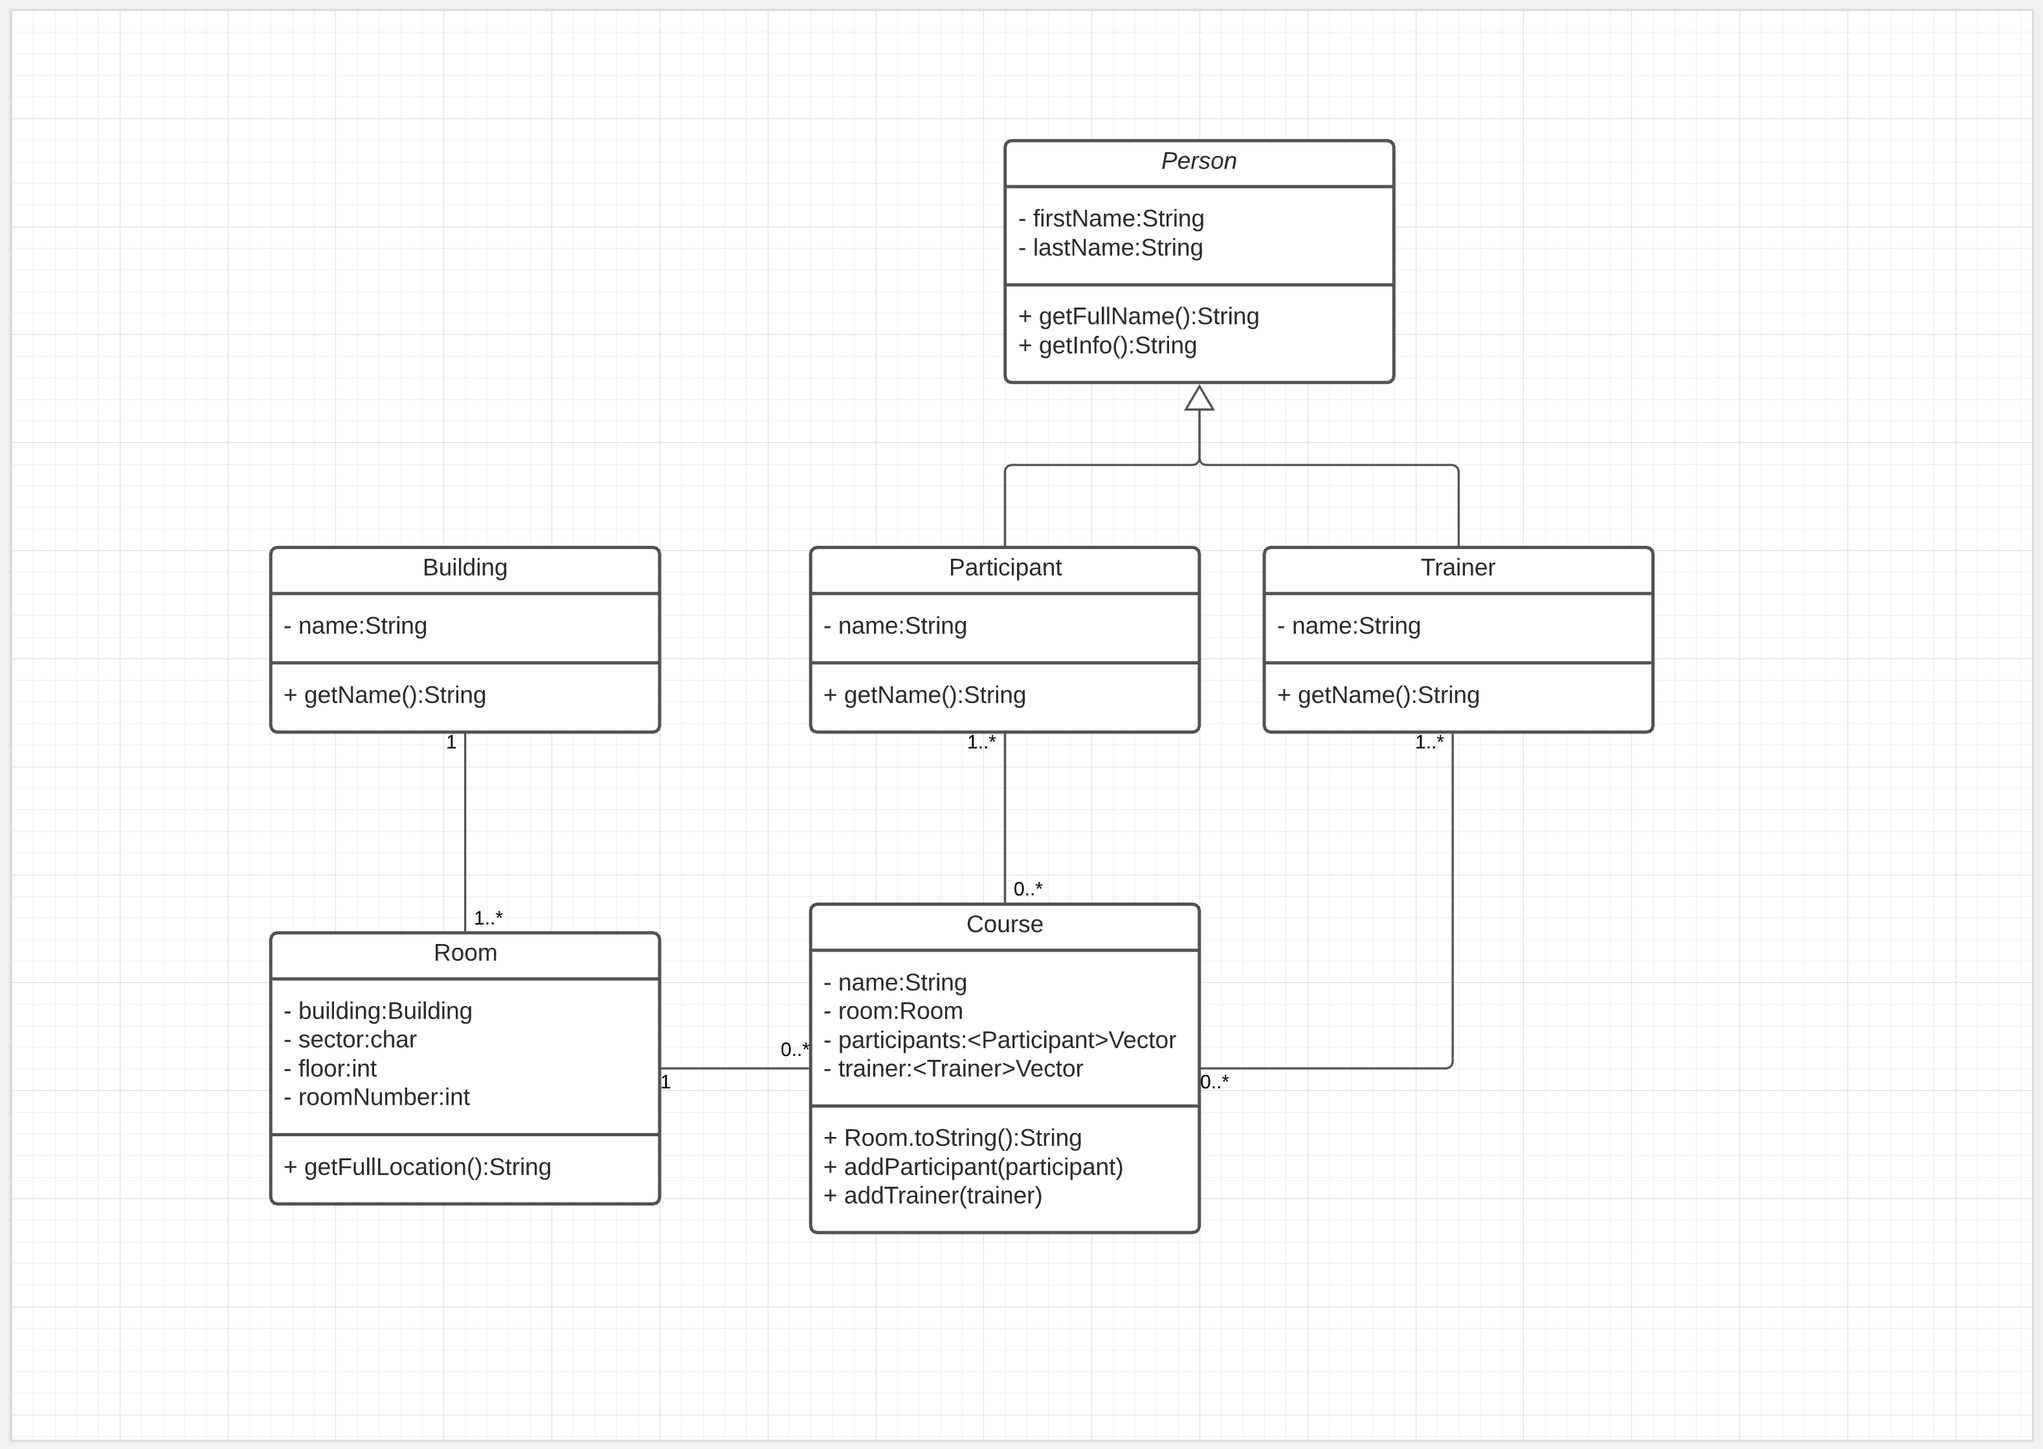
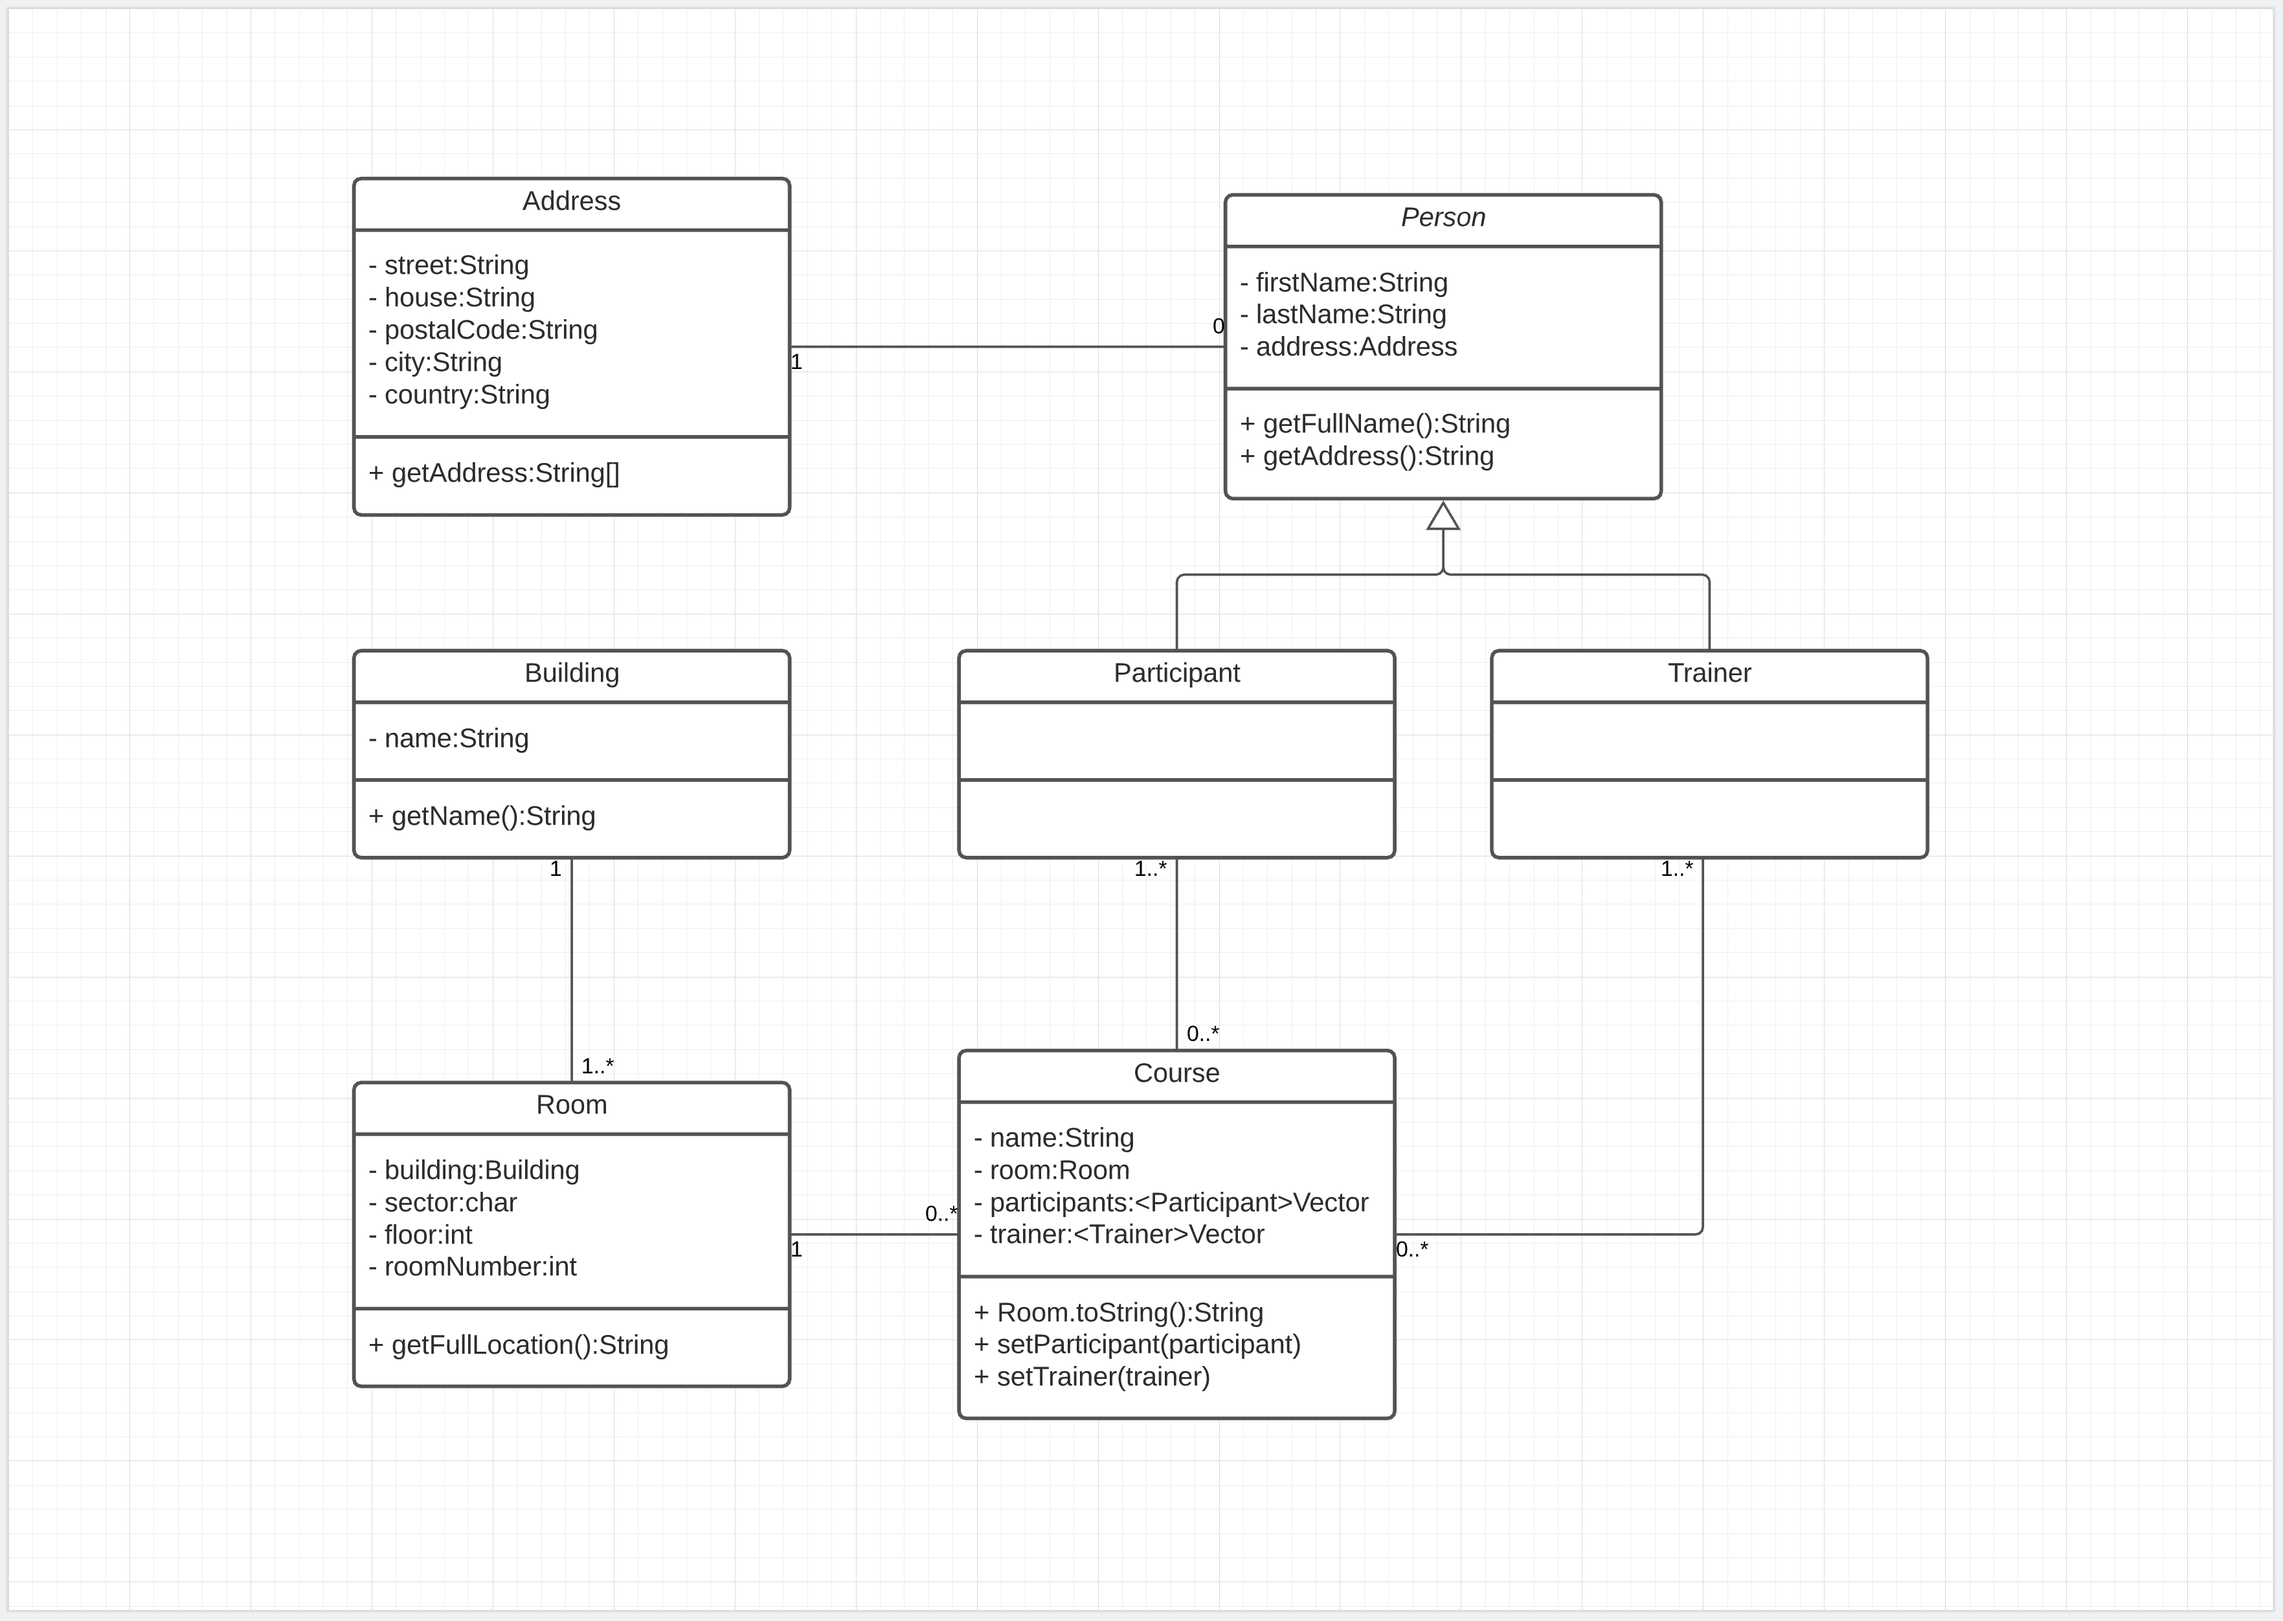
Update UML and minor changes

diff --git a/src/Lukas/day30CodingCampusObject/Person.java b/src/Lukas/day30CodingCampusObject/Person.java
@@ -4,11 +4,13 @@ public abstract class Person {
 	private String firstName;
 	private String lastName;
 	private Address address;
+	private String type;
 
-	Person(String firstName, String lastName, Address address) {
+	Person(String firstName, String lastName, Address address, String type) {
 		this.firstName = firstName;
 		this.lastName = lastName;
 		this.address = address;
+		this.type = type; // Probably useless, but just for testing
 	}
 
 	public String getFullName() {
@@ -17,4 +19,8 @@ public abstract class Person {
 	public String[] getAddress() {
 		return this.address.getAddress();
 	};
+
+	public String getType() {
+		return this.type;
+	}
 }

diff --git a/src/Lukas/day30CodingCampusObject/Main.java b/src/Lukas/day30CodingCampusObject/Main.java
@@ -29,8 +29,8 @@ public class Main {
 		// Print course
 		//System.out.println(codingCampus.toString());
 
-		System.out.println(Arrays.toString(daniel.getAddress()));
-		System.out.println(Arrays.toString(gyula.getAddress()));
-		System.out.println(Arrays.toString(ignatz.getAddress()));
+		System.out.println(daniel.getType() + ": " + Arrays.toString(daniel.getAddress()));
+		System.out.println(gyula.getType() + ": " + Arrays.toString(gyula.getAddress()));
+		System.out.println(ignatz.getType() + ": " + Arrays.toString(ignatz.getAddress()));
 	}
 }

diff --git a/src/Lukas/day30CodingCampusObject/Participant.java b/src/Lukas/day30CodingCampusObject/Participant.java
@@ -2,6 +2,6 @@ package Lukas.day30CodingCampusObject;
 
 public class Participant extends Person {
 	Participant(String firstName, String lastName, Address address) {
-		super(firstName, lastName, address);
+		super(firstName, lastName, address, "Participant");
 	}
 }

diff --git a/src/Lukas/day30CodingCampusObject/Trainer.java b/src/Lukas/day30CodingCampusObject/Trainer.java
@@ -2,6 +2,6 @@ package Lukas.day30CodingCampusObject;
 
 public final class Trainer extends Person {
 	Trainer(String firstName, String lastName, Address address) {
-		super(firstName, lastName, address);
+		super(firstName, lastName, address, "Trainer");
 	}
 }
